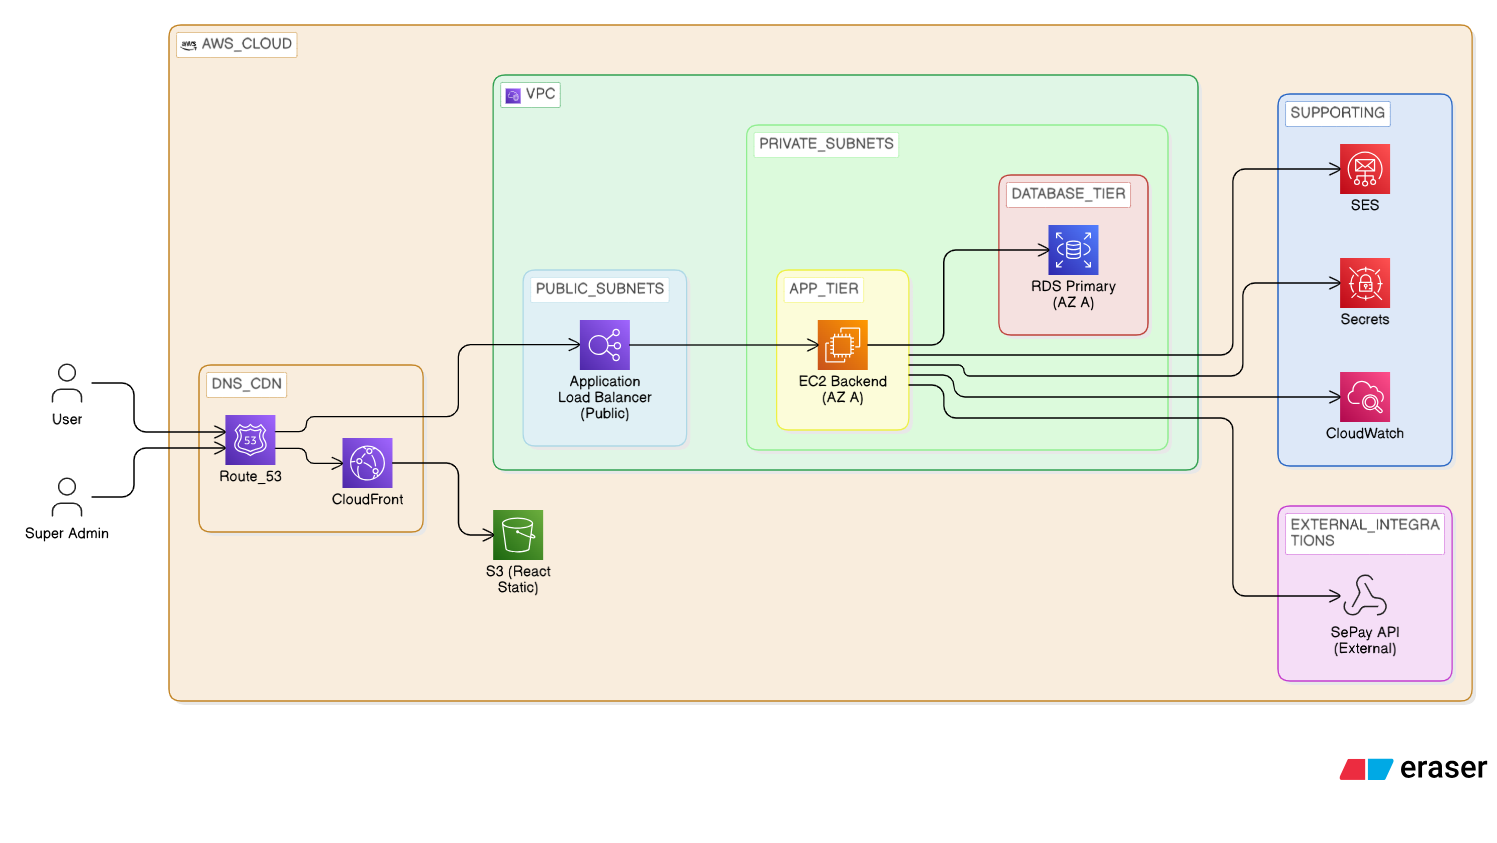
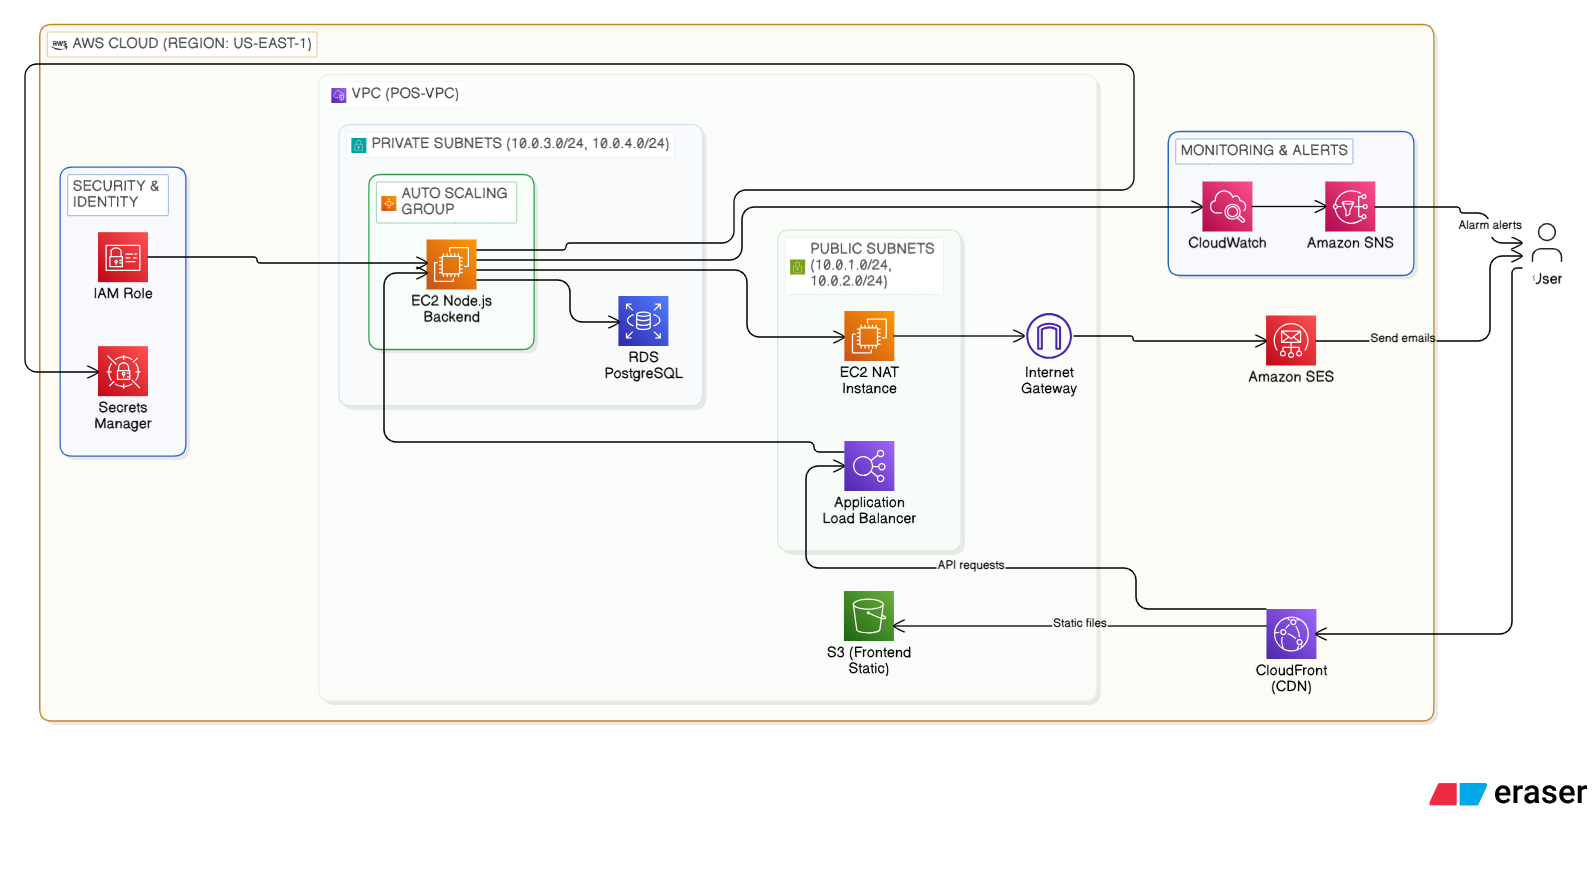
change image aws architect

diff --git a/backend/src/controllers/auth.controller.ts b/backend/src/controllers/auth.controller.ts
@@ -26,7 +26,7 @@ export const register = async (req: Request, res: Response) => {
 
     // 1. Kiểm tra shop có tồn tại không
     const tenantRes = await client.query(
-      'SELECT id, access_code FROM tenants WHERE id = $1',
+      'SELECT id, access_code FROM tenants WHERE LOWER(id) = LOWER($1)',
       [tenant_id]
     );
     if (tenantRes.rowCount === 0) {
